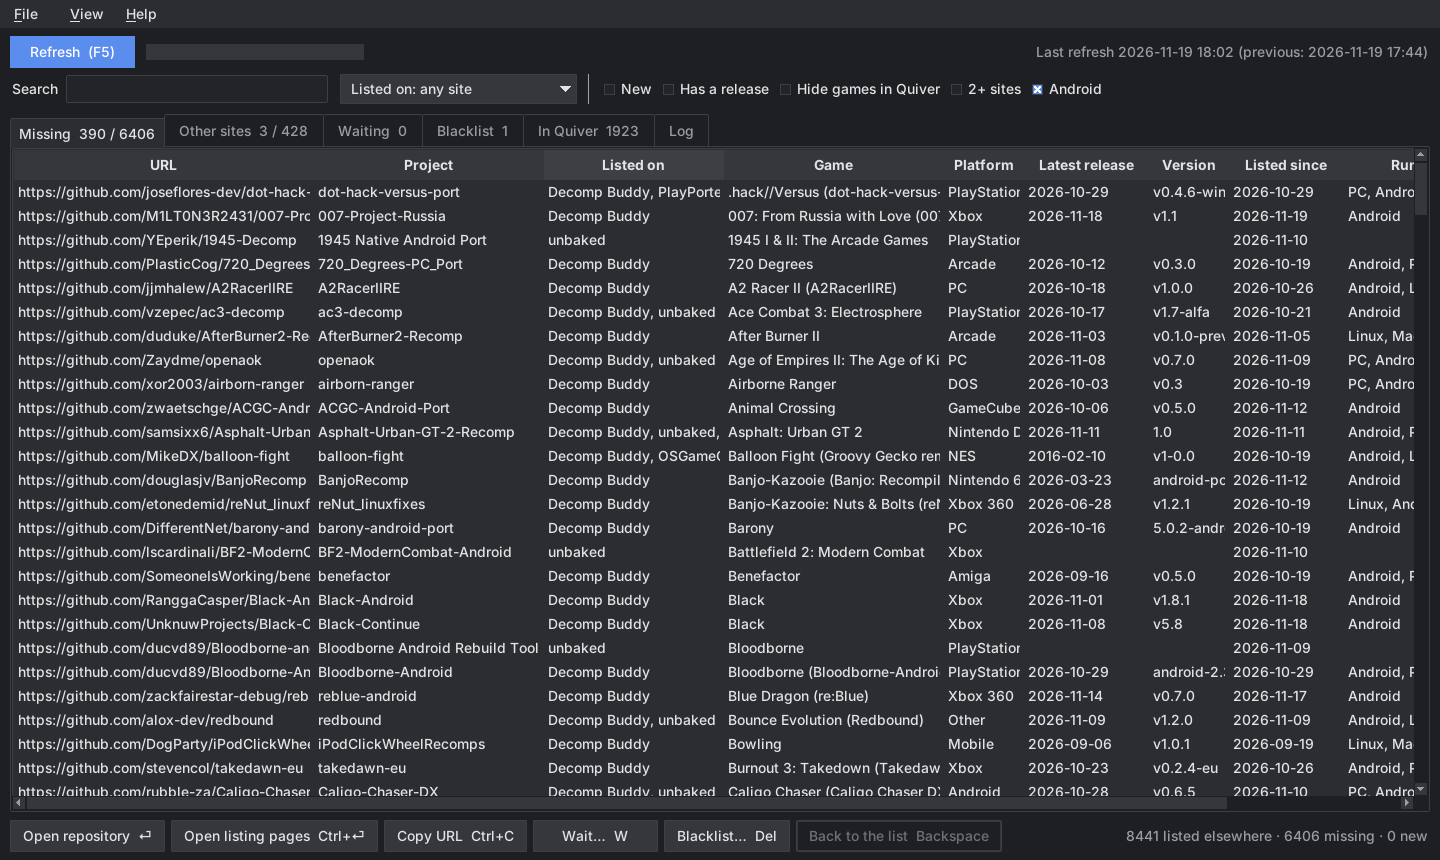
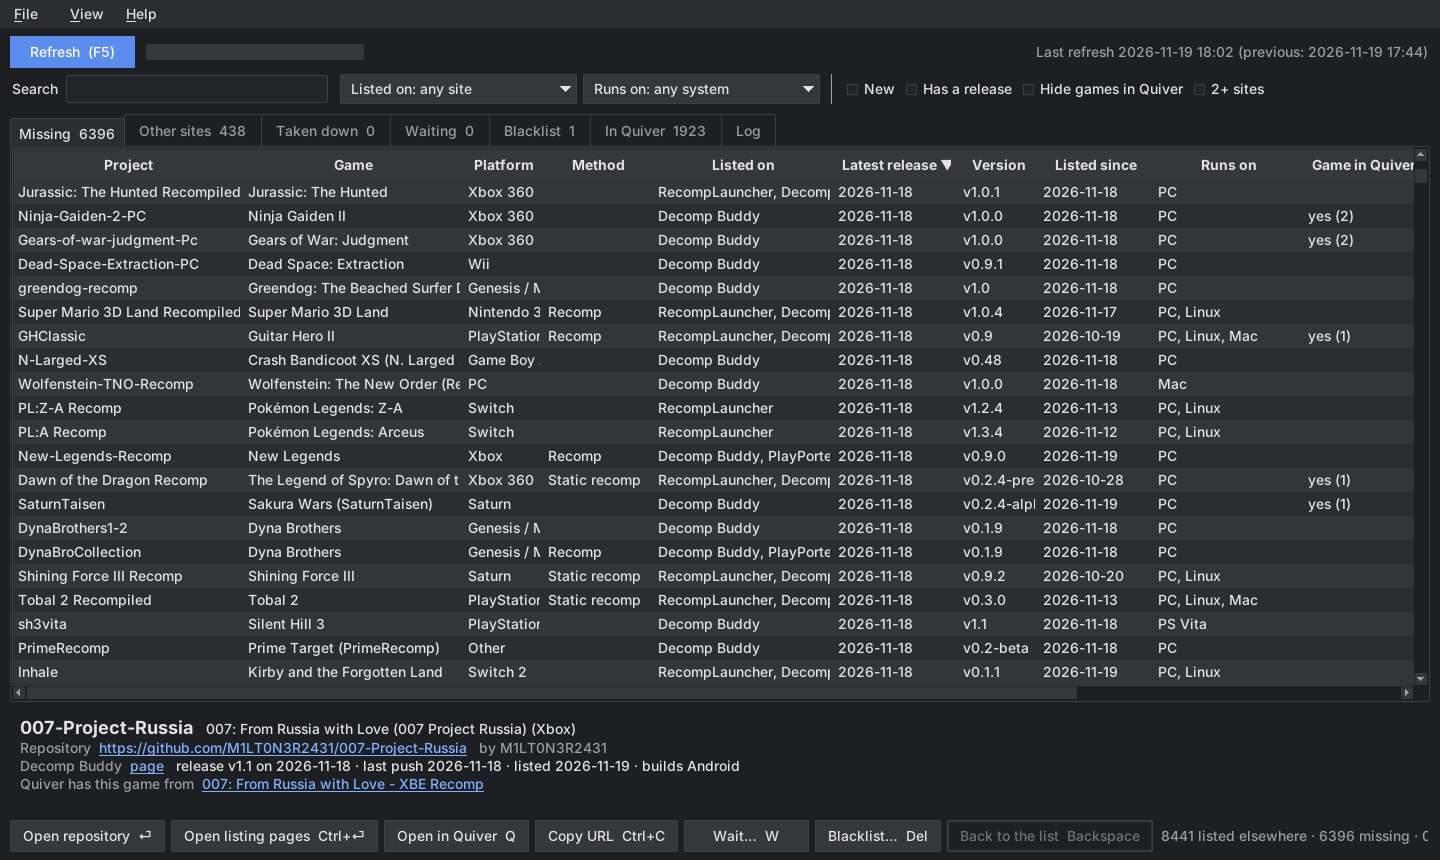
Striped rows, and Open in Quiver
- Rows alternate between two shades, in light and dark, kept by position
  after sorting.
- Open in Quiver (button, Q, right-click): the selected Quiver app's page
  on quiverlauncher.com, or for a listed project the page of the Quiver
  app with its repository, else of Quiver's apps for the same game. The
  details pane's "Quiver has this game from" links go there too.
- Two button labels are shorter, so the counter fits beside them.

Claude-Session: https://claude.ai/code/session_01G8hjgFWPpxnqZMyrzTYzAx

Changed region(s): [[0.0, 0.1209, 1.0, 0.9977], [0.4062, 0.0605, 0.875, 0.1209], [0.9375, 0.6651, 1.0, 0.9372]]

diff --git a/quiver_scout/gui.py b/quiver_scout/gui.py
@@ -151,6 +151,9 @@ class Table(ttk.Frame):
         self.tree.tag_configure("dim", foreground=c["dim"])
         self.tree.tag_configure("flag", foreground=c["good"])
         self.tree.tag_configure("warn", foreground=c["error"])
+        # Rows alternate between two shades, so a long row is easy to follow across.
+        self.tree.tag_configure("even", background=c["surface"])
+        self.tree.tag_configure("odd", background=c["stripe"])
 
     # ---- which columns, in what order ----------------------------------------------------------------------------
 
@@ -299,6 +302,8 @@ class Table(ttk.Frame):
         self.default_order = [r[0] for r in rows]
         if self.sort_col:
             self._sort()
+        else:
+            self._stripe()
         keep = [i for i in selected if self.tree.exists(i)]
         if keep:
             self.tree.selection_set(keep)
@@ -328,6 +333,7 @@ class Table(ttk.Frame):
         self._save("sort", None)
         for n, iid in enumerate(i for i in self.default_order if self.tree.exists(i)):
             self.tree.move(iid, "", n)
+        self._stripe()
         self._headings()
 
     def _sort(self) -> None:
@@ -337,7 +343,14 @@ class Table(ttk.Frame):
         empty = [r for r in rows if not r[0]]
         for n, (_, iid) in enumerate(filled + empty):
             self.tree.move(iid, "", n)
+        self._stripe()
         self._headings()
+
+    def _stripe(self) -> None:
+        """Shade every other row, by where it is now."""
+        for n, iid in enumerate(self.tree.get_children("")):
+            tags = [t for t in self.tree.item(iid, "tags") if t not in ("odd", "even")]
+            self.tree.item(iid, tags=[*tags, "odd" if n % 2 else "even"])
 
     def _headings(self) -> None:
         for cid in self.columns:
@@ -515,12 +528,14 @@ class App:
         actions = ttk.Frame(bottom, padding=(0, 8, 0, 0))
         actions.pack(side="bottom", fill="x")
         self.btn_open = ttk.Button(actions, text="Open repository  ⏎", command=self.open_repo)
-        self.btn_pages = ttk.Button(actions, text="Open listing pages  Ctrl+⏎", command=self.open_pages)
+        self.btn_pages = ttk.Button(actions, text="Listing pages  Ctrl+⏎", command=self.open_pages)
         self.btn_copy = ttk.Button(actions, text="Copy URL  Ctrl+C", command=self.copy_urls)
+        self.btn_quiver = ttk.Button(actions, text="Open in Quiver  Q", command=self.open_quiver)
         self.btn_wait = ttk.Button(actions, text="Wait…  W", command=self.wait_selected)
         self.btn_black = ttk.Button(actions, text="Blacklist…  Del", command=self.blacklist_selected)
-        self.btn_back = ttk.Button(actions, text="Back to the list  Backspace", command=self.undecide_selected)
-        for b in (self.btn_open, self.btn_pages, self.btn_copy, self.btn_wait, self.btn_black, self.btn_back):
+        self.btn_back = ttk.Button(actions, text="Back to list  ⌫", command=self.undecide_selected)
+        for b in (self.btn_open, self.btn_pages, self.btn_quiver, self.btn_copy, self.btn_wait, self.btn_black,
+                  self.btn_back):
             b.pack(side="left", padx=(0, 6))
         self.count = ttk.Label(actions, text="", style="Muted.TLabel")
         self.count.pack(side="right")
@@ -615,6 +630,7 @@ class App:
             t.tree.bind("<Delete>", lambda e: self.delete_key())
             t.tree.bind("<BackSpace>", lambda e: self.undecide_selected())
             t.tree.bind("<KeyPress-w>", lambda e: self.wait_selected())
+            t.tree.bind("<KeyPress-q>", lambda e: self.open_quiver())
             t.tree.bind("<Control-c>", lambda e: self.copy_urls())
             t.tree.bind("<Control-a>", lambda e, t=t: t.tree.selection_set(t.tree.get_children()))
 
@@ -624,6 +640,7 @@ class App:
             "Shift+F5\tFull refresh (read everything again)",
             "Enter / double-click\tOpen repository",
             "Ctrl+Enter\tOpen the listing site pages",
+            "Q\tOpen the Quiver listing (the app, or Quiver's apps for the same game)",
             "Ctrl+C\tCopy URLs of the selected rows",
             "W\tWait for it (on Waiting: change why)",
             "Delete\tBlacklist (on Waiting and Blacklist: back to the list)",
@@ -847,6 +864,7 @@ class App:
                              text="Change why…  W" if cur == "waiting" else "Wait…  W")
         self.btn_black.config(state=on(cur in ("missing", "other", "taken", "waiting")))
         self.btn_back.config(state=on(cur in ("waiting", "blacklist")))
+        self.btn_quiver.config(state=on(bool(self.quiver_pages())))
 
     def open_repo(self) -> None:
         links = self.selected_links()
@@ -854,6 +872,30 @@ class App:
             return
         for url, _ in links:
             open_url(url)
+
+    def quiver_pages(self) -> list[tuple[str, str]]:
+        """(title, Quiver page) for the selection: the Quiver app itself, the app with the same repository, or else
+        Quiver's apps for the same game."""
+        if self.current() == "quiver":
+            apps = [self.quiver_rows[i] for i in self.tables["quiver"].selection() if i in self.quiver_rows]
+        else:
+            apps = [q for c in self.selected_candidates() for q in (c.in_quiver or c.same_game)]
+        seen, out = set(), []
+        for q in apps:
+            if q.page and q.page not in seen:
+                seen.add(q.page)
+                out.append((q.title, q.page))
+        return out
+
+    def open_quiver(self) -> None:
+        pages = self.quiver_pages()
+        if not pages:
+            self.status.config(text="Quiver has no app for the selection, or for its game.", style="TLabel")
+            return
+        if len(pages) > 10 and not messagebox.askyesno("Open links", f"Open {len(pages)} Quiver pages in your browser?"):
+            return
+        for _, page in pages:
+            open_url(page)
 
     def open_pages(self) -> None:
         pages = [p for _, ps in self.selected_links() for p in ps if p]
@@ -949,6 +991,9 @@ class App:
         m = tk.Menu(self.root, tearoff=False)
         m.add_command(label="Open repository", command=self.open_repo)
         m.add_command(label="Open listing pages", command=self.open_pages)
+        quiver = self.quiver_pages()
+        m.add_command(label="Open in Quiver" if len(quiver) <= 1 else f"Open in Quiver ({len(quiver)} apps)",
+                      command=self.open_quiver, state="normal" if quiver else "disabled")
         m.add_command(label="Copy URL", command=self.copy_urls)
         m.add_command(label="Check link now", command=self.check_selected_links,
                       state="disabled" if self.refreshing else "normal")
@@ -971,7 +1016,7 @@ class App:
             if len(cands) == 1 and cands[0].same_game:
                 m.add_separator()
                 for q in cands[0].same_game[:8]:
-                    m.add_command(label=f"Quiver has the same game: {q.title}", command=lambda u=q.url: open_url(u))
+                    m.add_command(label=f"Quiver has the same game: {q.title}", command=lambda u=q.page or q.url: open_url(u))
         m.tk_popup(event.x_root, event.y_root)
 
     def check_selected_links(self) -> None:
@@ -1002,6 +1047,7 @@ class App:
         self.details.insert("end", f"\n{label}  ", "label")
 
     def show_details(self) -> None:
+        self._update_buttons()
         d = self.details
         d.config(state="normal")
         d.delete("1.0", "end")
@@ -1121,7 +1167,7 @@ class App:
         elif c.same_game:
             self._line("Quiver has this game from")
             for q in c.same_game[:6]:
-                self._link(q.title, q.url)
+                self._link(q.title, q.page or q.url)
                 d.insert("end", "   ")
         self._link_line(c.link)
         dec = c.decision

diff --git a/quiver_scout/theme.py b/quiver_scout/theme.py
@@ -13,13 +13,13 @@ LIGHT = {
     "bg": "#f3f3f5", "surface": "#ffffff", "raised": "#e9e9ed", "field": "#ffffff", "border": "#cfd0d6",
     "fg": "#1d1d1f", "muted": "#6b6b72", "dim": "#9a9aa0", "accent": "#2f6fde", "on_accent": "#ffffff",
     "select": "#cfe0ff", "on_select": "#0b1f44", "link": "#1a5fb4", "error": "#c8372b", "good": "#1b8a3e",
-    "stripe": "#f7f8fa",
+    "stripe": "#f0f1f4",
 }
 DARK = {
     "bg": "#1e1f22", "surface": "#2b2d31", "raised": "#35373c", "field": "#232428", "border": "#3d3f45",
     "fg": "#e3e3e6", "muted": "#9a9ca3", "dim": "#6f7178", "accent": "#5b8def", "on_accent": "#ffffff",
     "select": "#2f4a7a", "on_select": "#ffffff", "link": "#7fb2ff", "error": "#ff6b6b", "good": "#4cc274",
-    "stripe": "#26282c",
+    "stripe": "#33353a",
 }
 
 

diff --git a/quiver_scout/__init__.py b/quiver_scout/__init__.py
@@ -1,3 +1,3 @@
 """Quiver Scout: find recompilations and ports that the Quiver Launcher catalog doesn't list yet."""
 
-__version__ = "0.6.0"
+__version__ = "0.7.0"

diff --git a/README.md b/README.md
@@ -109,6 +109,7 @@ follow too. Alt+F, Alt+V and Alt+H open the menus.
 | F5 / Shift+F5 | Refresh what changed / full refresh |
 | Enter / double-click | Open the repository |
 | Ctrl+Enter | Open its pages on the listing sites |
+| Q | Open in Quiver: the app's page on quiverlauncher.com, or, for a project Quiver doesn't have, the pages of Quiver's apps for the same game |
 | Ctrl+C | Copy the selected rows' URLs |
 | W | Wait for it (on Waiting: change why) |
 | Delete | Blacklist (on Waiting and Blacklist: back to the list) |
